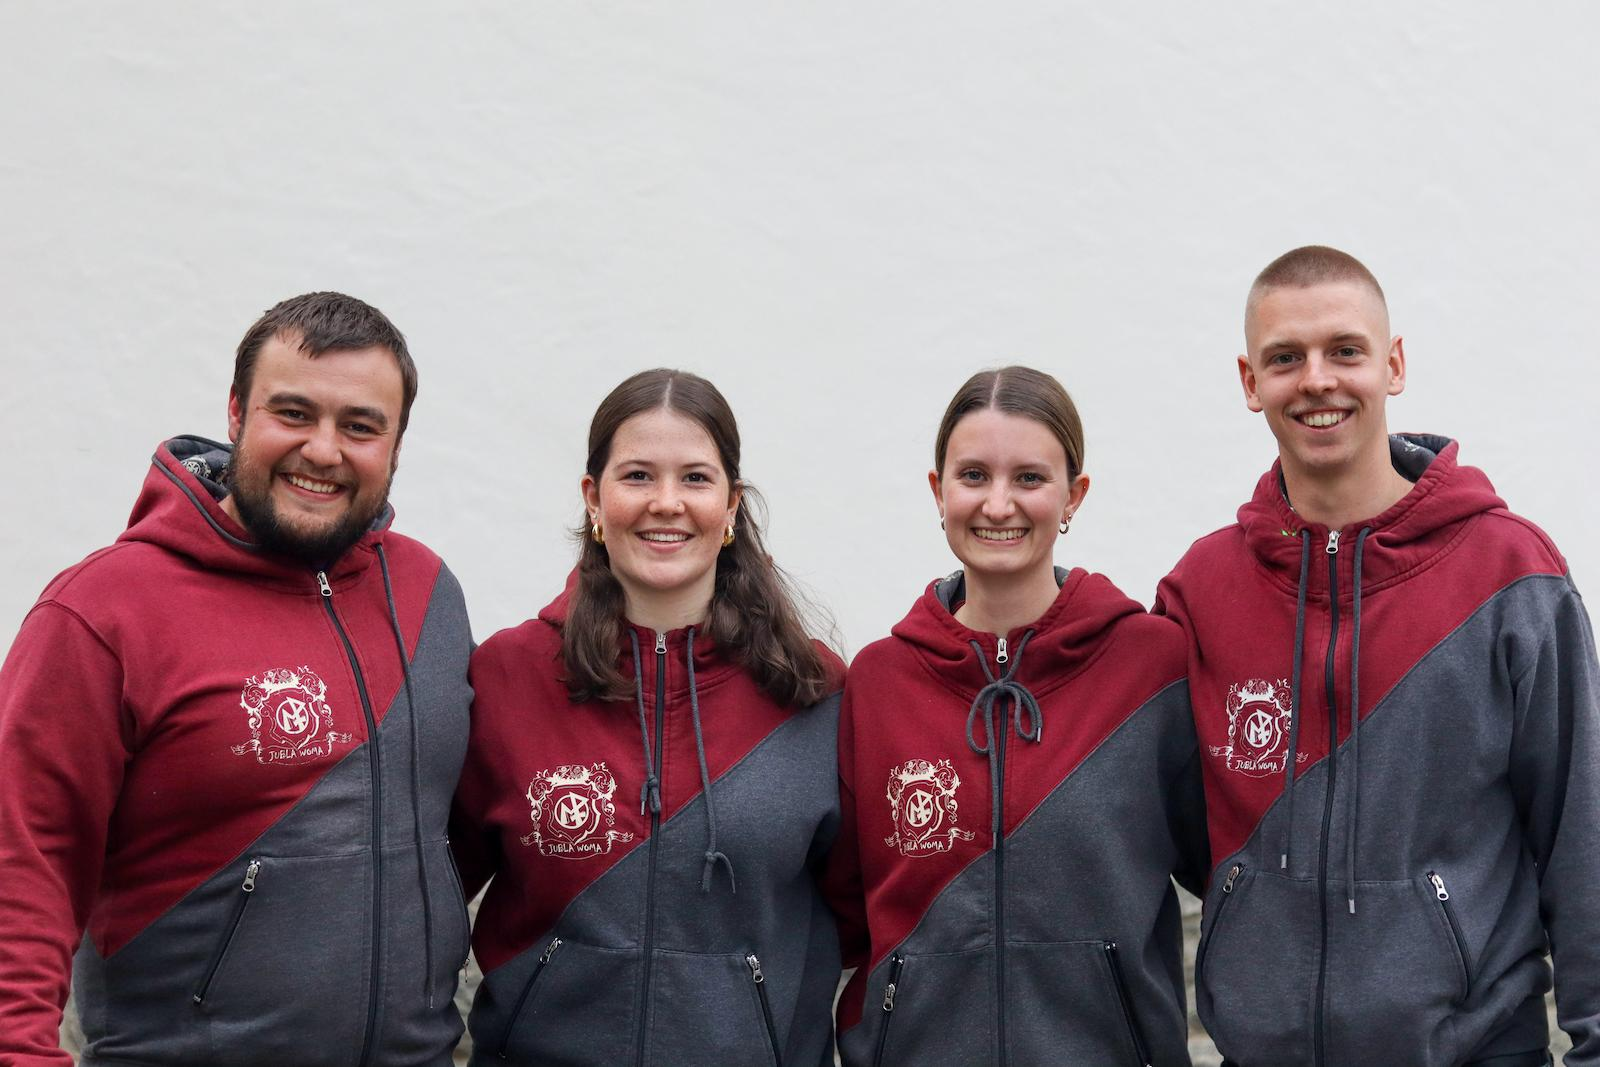
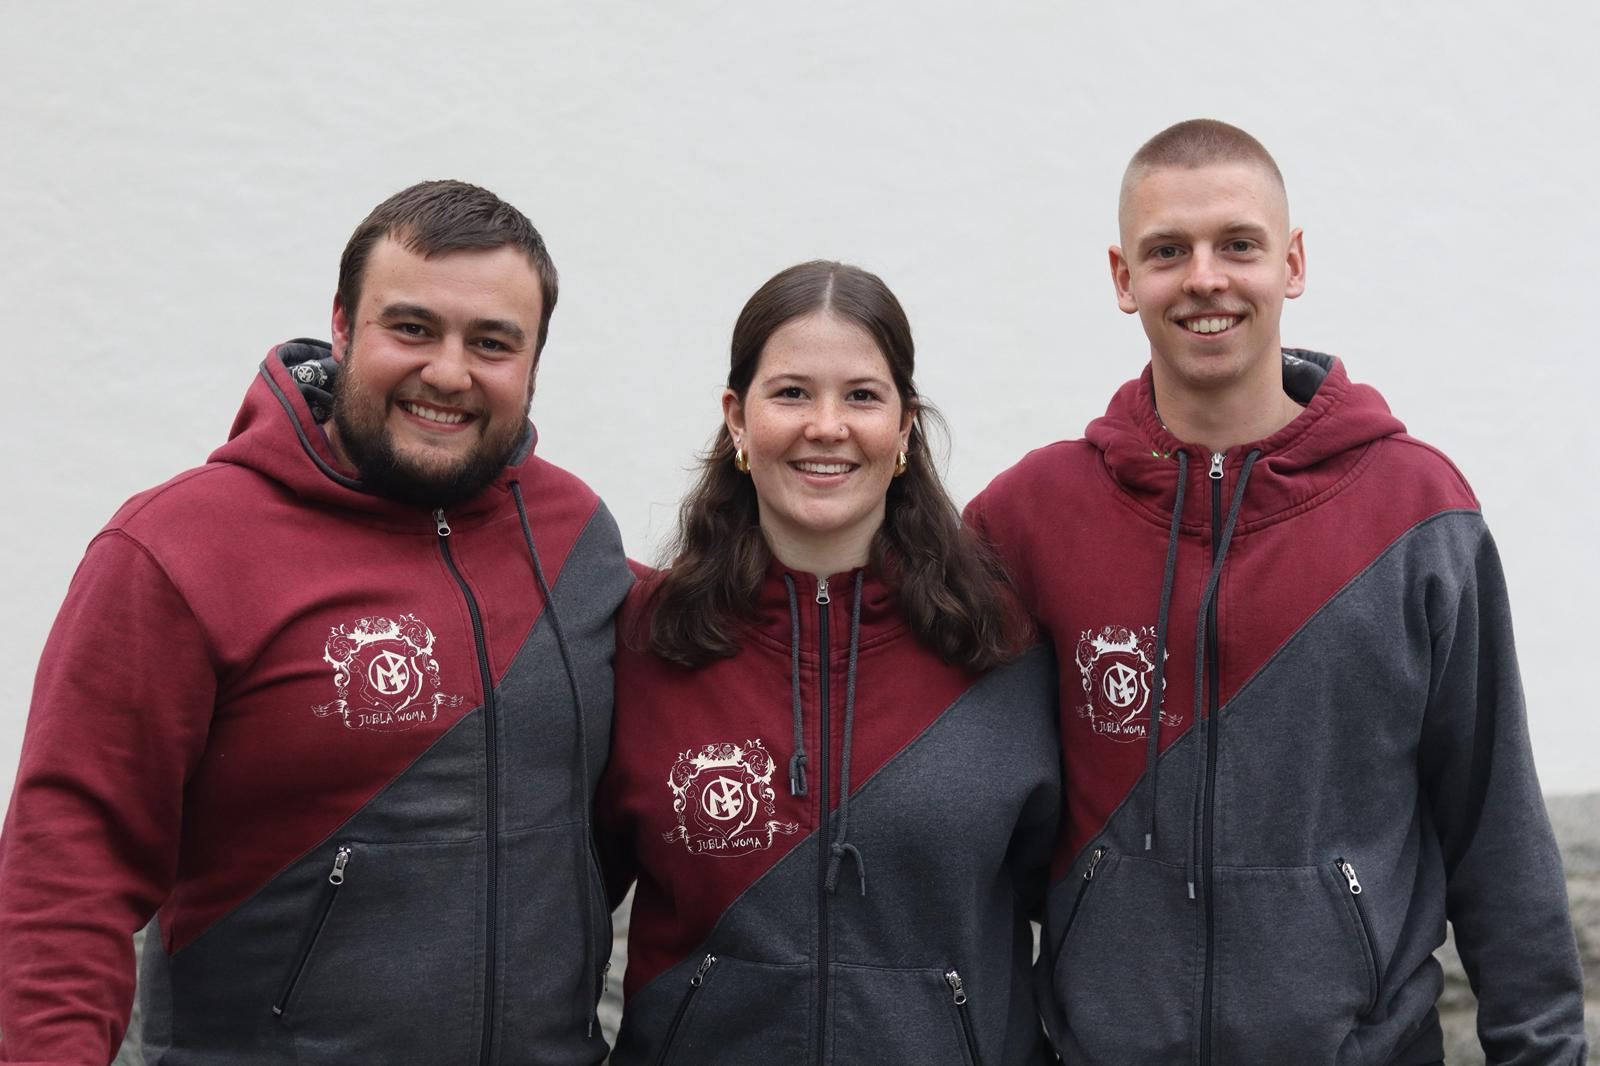
remove saskia

diff --git a/ui/src/sites/jublawoma/jublawoma-legal.tsx b/ui/src/sites/jublawoma/jublawoma-legal.tsx
@@ -38,10 +38,6 @@ const JublawomaLegal = () => {
           <Text type="h3">Vertretungsberechtigte Personen</Text>
           <Flex xl={{direction: "row", gap: 2}} s={{direction: "column"}}>
             <Flex xl={{direction: "column"}}>
-              <Text type="p">Saskia Schmid</Text>
-              <Text type="s" primary={false}>Scharleitung</Text>
-            </Flex>
-            <Flex xl={{direction: "column"}}>
               <Text type="p">Fabian Stahel</Text>
               <Text type="s" primary={false}>Scharleitung</Text>
             </Flex>

diff --git a/ui/src/sites/jublawoma/jublawoma-about.tsx b/ui/src/sites/jublawoma/jublawoma-about.tsx
@@ -50,7 +50,6 @@ const JublawomaAbout = () => {
                             <Flex xl={{direction: "column", gap: 1}} m={{direction: "row"}} s={{direction: "column"}}>
                                 <Text type="p">Raphael Schreiber</Text>
                                 <Text type="p">Lynn Horlacher</Text>
-                                <Text type="p">Saskia Schmid</Text>
                                 <Text type="p">Fabian Stahel</Text>
                             </Flex>
                         </Flex>
